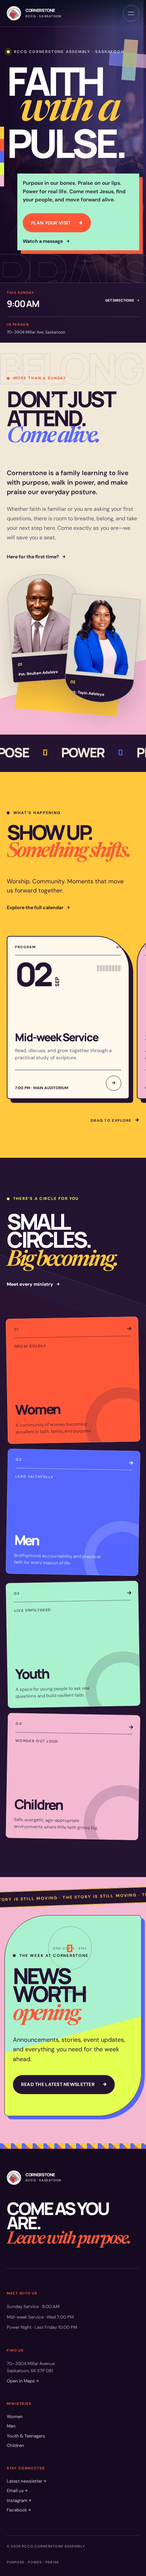
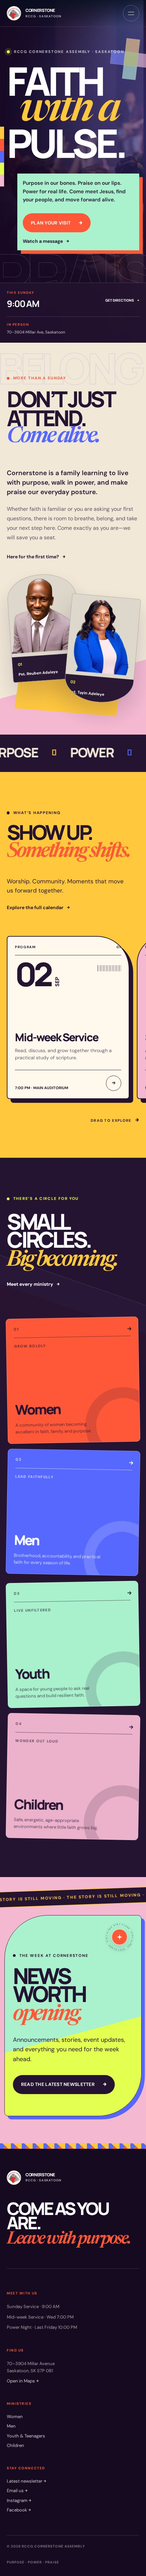
Refine welcome composition and orbit badges

diff --git a/apps/churchmain/src/styles/global.css b/apps/churchmain/src/styles/global.css
@@ -897,21 +897,58 @@ body.nav-open {
 .pastor-card figcaption { display: flex; align-items: center; justify-content: space-between; gap: .75rem; padding: .85rem 1rem; color: white; background: var(--ink); font-size: .72rem; font-weight: 700; }
 .pastor-card figcaption span { color: var(--lime); }
 
+.orbit-badge {
+    display: grid;
+    place-items: center;
+    color: var(--ink);
+}
+
+.orbit-badge svg,
+.orbit-badge__core { grid-area: 1 / 1; }
+
+.orbit-badge svg {
+    display: block;
+    width: 100%;
+    height: 100%;
+    overflow: visible;
+    transform-origin: center;
+    animation: orbit-spin 18s linear infinite;
+}
+
+.orbit-badge circle { fill: none; stroke: currentColor; }
+.orbit-badge__rail { opacity: .32; stroke-width: .75; }
+.orbit-badge__dash { opacity: .22; stroke-dasharray: 1 5; stroke-linecap: round; stroke-width: 1; }
+.orbit-badge text { fill: currentColor; font-family: "DM Sans", sans-serif; font-size: 6.5px; font-weight: 800; letter-spacing: 1px; }
+
+.orbit-badge__core {
+    position: relative;
+    z-index: 1;
+    display: grid;
+    width: 2.9rem;
+    height: 2.9rem;
+    place-items: center;
+    border: 1px solid currentColor;
+    border-radius: 50%;
+    color: var(--paper);
+    background: var(--blue);
+    box-shadow: 0 .5rem 1.5rem rgb(36 19 49 / 16%);
+}
+
+.orbit-badge__core::before {
+    width: 1.05rem;
+    aspect-ratio: 1;
+    background: currentColor;
+    clip-path: polygon(50% 0, 61% 39%, 100% 50%, 61% 61%, 50% 100%, 39% 61%, 0 50%, 39% 39%);
+    content: "";
+}
+
 .welcome-orbit {
     position: absolute;
     top: 7rem;
     right: 5%;
-    display: grid;
     width: 9rem;
     height: 9rem;
-    place-items: center;
-    border: 1px solid var(--line);
-    border-radius: 50%;
-    animation: orbit-spin 16s linear infinite;
 }
-
-.welcome-orbit::after { content: "✦"; color: var(--blue); font-size: 2rem; }
-.welcome-orbit span { position: absolute; width: 13rem; font-size: .56rem; font-weight: 800; letter-spacing: .16em; text-align: center; transform: rotate(-18deg); }
 
 .belief-marquee {
     width: 100%;
@@ -1122,8 +1159,9 @@ body.nav-open {
 .stay-connected h2 em { color: var(--blue); }
 .stay-connected__copy { position: relative; z-index: 2; max-width: 26rem; padding-bottom: 1rem; }
 .stay-connected__copy p { margin: 0 0 2rem; font-size: 1.12rem; line-height: 1.6; }
-.stay-connected__orbit { position: absolute; top: 3rem; right: 3rem; width: 10rem; height: 10rem; margin: 0; color: rgb(36 19 49 / 55%); border: 1px solid rgb(36 19 49 / 35%); border-radius: 50%; font-size: .55rem; font-weight: 800; letter-spacing: .16em; line-height: 10rem; text-align: center; animation: orbit-spin 18s linear infinite; }
-.stay-connected__orbit::after { content: "✦"; position: absolute; inset: 0; color: var(--coral); font-size: 2rem; }
+.stay-connected__orbit { position: absolute; top: 3rem; right: 3rem; width: 10rem; height: 10rem; color: rgb(36 19 49 / 66%); }
+.stay-connected__orbit svg { animation-direction: reverse; animation-duration: 22s; }
+.stay-connected__orbit .orbit-badge__core { color: var(--paper); background: var(--coral); }
 
 /* Footer */
 .site-footer {
@@ -1213,7 +1251,7 @@ body.nav-open {
     .ministry-tile { min-height: 24rem; grid-column: 1; }
     .stay-connected { padding-inline: .8rem; }
     .stay-connected__inner { min-height: 37rem; align-content: end; gap: 2rem; padding: 3rem 1.5rem; border-radius: 9rem 9rem .8rem .8rem / 5rem 5rem .8rem .8rem; box-shadow: .55rem .55rem 0 var(--ink); }
-    .stay-connected__orbit { top: 2rem; right: 50%; width: 8rem; height: 8rem; line-height: 8rem; transform: translateX(50%); }
+    .stay-connected__orbit { top: 1rem; right: 1rem; width: 6rem; height: 6rem; }
     .site-footer__grid { grid-template-columns: 1fr 1fr; }
 }
 
@@ -1372,7 +1410,7 @@ body.nav-open {
 
 .pastors-composition {
     grid-column: 6 / 13;
-    margin-top: -6rem;
+    margin-top: clamp(2rem, 4vw, 4rem);
 }
 
 .pastors-composition__shape {
